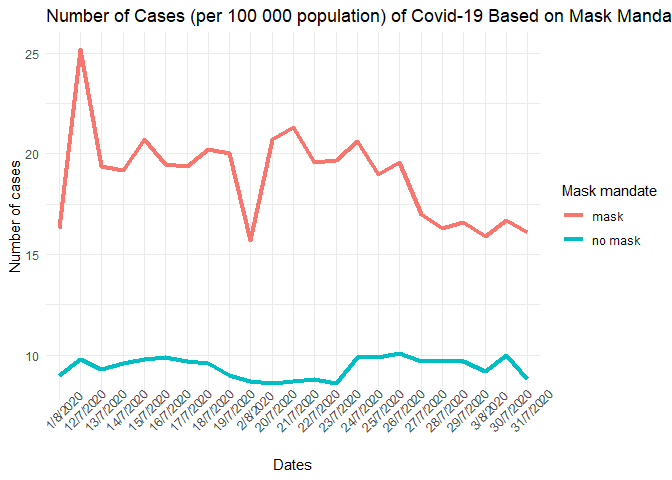
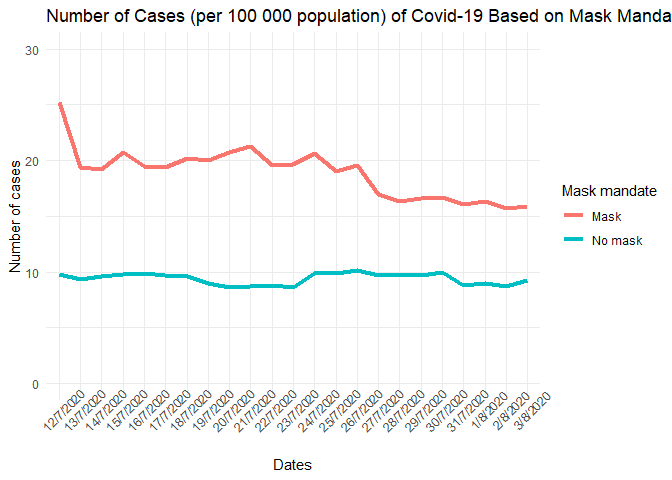
Finish lab 7

diff --git a/lab-07.md b/lab-07.md
@@ -72,8 +72,16 @@ Creating a more appropriate visualization:
 
 ``` r
 df %>%
-  ggplot(aes(x = date, y = cases, group = mask, color = mask, group = 1)) +
+  mutate(mask = case_when(
+    mask == "mask" ~ "Mask",
+    mask == "no mask" ~ "No mask"
+  )) %>%
+  # The graph looks all weird (and misleading) because the dates aren't ordered correctly. Added arrange to change the order of the dates in the graph
+  arrange(dmy(date)) %>%
+  # The data kept being reorganized by ggplot automatically, so the fct_inorder() function from forcats tells ggplot to not reorder it
+  ggplot(aes(x = fct_inorder(date), y = cases, group = mask, color = mask, group = 1)) +
   geom_line(linewidth = 1.5) +
+  ylim(0, 30) +
   theme_minimal() +
   labs(
     title = "Number of Cases (per 100 000 population) of Covid-19 Based on Mask Mandates",
@@ -107,3 +115,170 @@ gatherings that the no mask counties, since they think masks will delay
 the spread.
 
 ## Exericse 5
+
+The visualization I made is in my opinion more accurate, since it has
+the same scale for both the mask and no mask counties. You can therefore
+easily compare the number of cases with and without a mask mandate. I
+also had the scale run from 0, so that you can easily compare
+proportions, which is harder to do with a scale that starts at a
+different number than 0. Lastly, it is a line graph to show the
+progression over time.
+
+## Exercise 6
+
+I want to make a visualization that communicates that it is even more
+effective with masks, than what the current visualization shows. To do
+this, I will pull off a trick that I learned from FOX news: to change
+the distance between the data points on the x-axis to get the shape I
+want for the graph. I will do this by dropping a lot of the dates that
+don’t show a rapid decrease:
+
+``` r
+df %>%
+  mutate(mask = case_when(
+    mask == "mask" ~ "Mask",
+    mask == "no mask" ~ "No mask"
+  )) %>%
+  filter(date %in% c("12/7/2020", "13/7/2020", "3/8/2020")) %>%
+  arrange(dmy(date)) %>%
+  ggplot(aes(x = fct_inorder(date), y = cases, group = mask, color = mask, group = 1)) +
+  geom_line(linewidth = 1.5) +
+  ylim(0, 30) +
+  theme_minimal() +
+  labs(
+    title = "Number of Cases (per 100 000 population) of Covid-19 Based on Mask Mandates",
+    subtitle = "Making it look like mask mandates are even more effective",
+    x = "Dates",
+    y = "Number of cases",
+    color = "Mask mandate"
+  ) +
+  theme(axis.text.x = element_text(angle = 45))
+```
+
+    ## Warning: Duplicated aesthetics after name standardisation: group
+
+![](lab-07_files/figure-gfm/mask-effective-plot-1.png)<!-- -->
+
+Now, it looks like mask mandates are highly effective in decreasing
+number of cases.
+
+### Masks are not effective
+
+Now, I will use the same tactic to make it look like mask mandates are
+not effective at all:
+
+``` r
+df %>%
+  mutate(mask = case_when(
+    mask == "mask" ~ "Mask",
+    mask == "no mask" ~ "No mask"
+  )) %>%
+  filter(date %in% c("15/7/2020", "16/7/2020", "17/7/2020", "18/7/2020", "19/7/2020", "20/7/2020", "21/7/2020", "22/7/2020", "23/7/2020")) %>%
+  arrange(dmy(date)) %>%
+  ggplot(aes(x = fct_inorder(date), y = cases, group = mask, color = mask, group = 1)) +
+  geom_line(linewidth = 1.5) +
+  ylim(0, 30) +
+  theme_minimal() +
+  labs(
+    title = "Number of Cases (per 100 000 population) of Covid-19 Based on Mask Mandates",
+    subtitle = "Making it look like mask mandates are not effective",
+    x = "Dates",
+    y = "Number of cases",
+    color = "Mask mandate"
+  ) +
+  theme(axis.text.x = element_text(angle = 45))
+```
+
+    ## Warning: Duplicated aesthetics after name standardisation: group
+
+![](lab-07_files/figure-gfm/mask-ineffective-plot-1.png)<!-- -->
+
+Now, mask mandates seem to not be the slightest helpful.
+
+### Masks are bad
+
+Now, we can play around and make it look like masks actually increases
+covid cases:
+
+``` r
+df %>%
+  mutate(mask = case_when(
+    mask == "mask" ~ "Mask",
+    mask == "no mask" ~ "No mask"
+  )) %>%
+  filter(date %in% c("16/7/2020", "17/7/2020", "18/7/2020", "19/7/2020", "20/7/2020")) %>%
+  arrange(dmy(date)) %>%
+  ggplot(aes(x = fct_inorder(date), y = cases, group = mask, color = mask, group = 1)) +
+  geom_line(linewidth = 1.5) +
+  ylim(0, 30) +
+  theme_minimal() +
+  labs(
+    title = "Number of Cases (per 100 000 population) of Covid-19 Based on Mask Mandates",
+    subtitle = "Making it look like mask mandates are damaging",
+    x = "Dates",
+    y = "Number of cases",
+    color = "Mask mandate"
+  ) +
+  theme(axis.text.x = element_text(angle = 45))
+```
+
+    ## Warning: Duplicated aesthetics after name standardisation: group
+
+![](lab-07_files/figure-gfm/mask-bad-plot-1.png)<!-- -->
+
+This message can also easily be conveyed with a bar graph, that only
+takes the mean into account, not the development over time:
+
+``` r
+df %>%
+  mutate(mask = case_when(
+    mask == "mask" ~ "Mask",
+    mask == "no mask" ~ "No mask"
+  )) %>%
+  ggplot(aes(x = mask, y = cases, fill = mask)) +
+  geom_bar(stat = 'summary', fun = "mean") +
+  theme_minimal() +
+  labs(
+    title = "Number of Cases (per 100 000 population) of Covid-19 Based on Mask Mandates",
+    subtitle = "Making it look like mask mandates are bad",
+    x = "Dates",
+    y = "Number of cases",
+    fill = "Mask mandate"
+  )
+```
+
+![](lab-07_files/figure-gfm/mask-bad-bar-plot-1.png)<!-- -->
+
+### Mask-mandate counties have lower cases of covid
+
+What about switching the y-axis. Why have it start at 0 and go to 30,
+when we can have it go from 30 to 0?
+
+``` r
+df %>%
+  mutate(mask = case_when(
+    mask == "mask" ~ "Mask",
+    mask == "no mask" ~ "No mask"
+  )) %>%
+  # The graph looks all weird (and misleading) because the dates aren't ordered correctly. Added arrange to change the order of the dates in the graph
+  arrange(dmy(date)) %>%
+  # The data kept being reorganized by ggplot automatically, so the fct_inorder() function from forcats tells ggplot to not reorder it
+  ggplot(aes(x = fct_inorder(date), y = cases, group = mask, color = mask, group = 1)) +
+  geom_line(linewidth = 1.5) +
+  scale_y_reverse(limits = c(30, 0)) +
+  theme_minimal() +
+  labs(
+    title = "Number of Cases (per 100 000 population) of Covid-19 Based on Mask Mandates",
+    x = "Dates",
+    y = "Number of cases",
+    color = "Mask mandate"
+  ) +
+  theme(axis.text.x = element_text(angle = 45))
+```
+
+    ## Warning: Duplicated aesthetics after name standardisation: group
+
+![](lab-07_files/figure-gfm/invert-y-axis-plot-1.png)<!-- -->
+
+Now, the plot is more accurate based on my initial hypothesis. There are
+a lot fewer cases of Covid with mask mandates than without.
